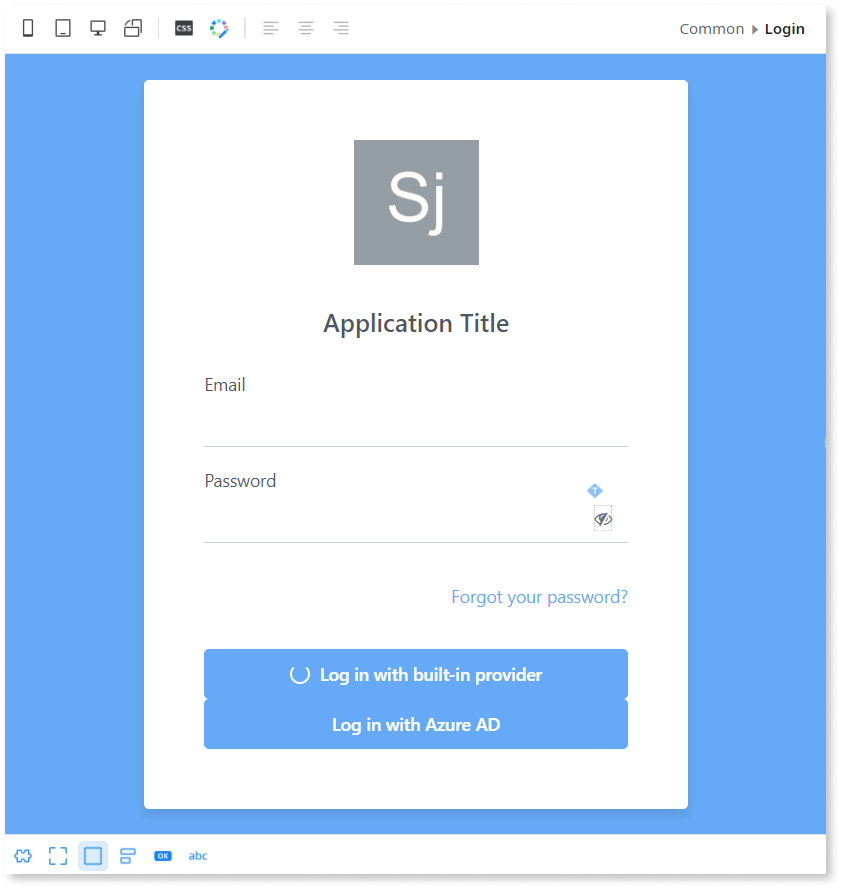
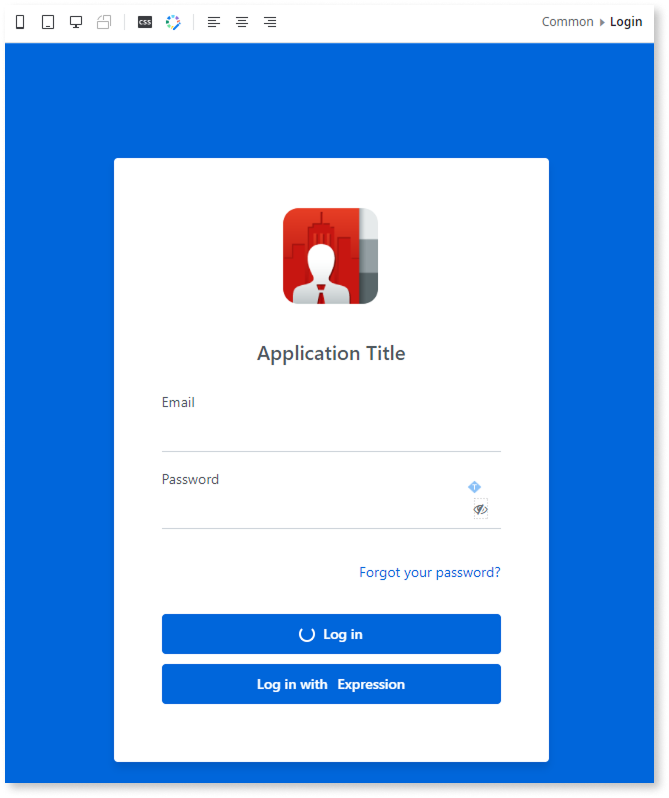
TK-16236 RDTKF-22078 RDTKF-22079 RDTKF-22080 RDTKF-19530 Add the missing Modify user info bar logout flow

diff --git a/src/eap/manage-platform-app-lifecycle/external-idps/apps.md b/src/eap/manage-platform-app-lifecycle/external-idps/apps.md
@@ -20,104 +20,284 @@ topic:
   - external-idps
 ---
 
-# Use external identity providers in an app
+# Use external identity providers (IdPs) in an app
 
-After assigning an external IdP to stage(s) (Development, QA, Production) in ODC Portal, you must modify the end-user login and logout flows for each app you want to use it.
+In the ODC Portal, you can configure external IdPs to manage authentication for different app stages (Development, QA, Production), ensuring that users authenticate through the provider assigned to their respective stage. After you [assign an External IdP](intro.md#assign-an-external-idp) to one or more stages in the ODC Portal, you need to update the end-user login and logout flows for each app you want to integrate with it.
 
-You can do one of the following:
+You can choose one of the following options (you need to update the end-user login and logout flows in a different way depending on the scenario you choose):
 
 * [**Delete the built-in login screen and redirect to an external provider.**](#delete-the-built-in-login-screen-and-redirect-to-external-provider) The recommended solution if you want to use a single external provider for your app, without the option of built-in provider.
 
-* [**Modify the built-in login screen to add button(s) for external provider login.**](#modify-the-built-in-login-screen-to-add-buttons-for-external-provider-login) The recommended solution if using multiple external providers or a single external provider and retain the option to login with the built-in provider.
+* [**Modify the built-in login screen to add buttons for external provider login.**](#modify-to-add-button) The recommended solution if using multiple external providers or a single external provider and retain the option to login with the built-in provider.
 
-After you complete the steps for your selected solution, republish the app and [promote](../../deploying-apps/deploy-apps.md) the new revision to the stage(s) where the provider is active.
-
-## Delete the built-in login screen and redirect to external provider
-
-For each app you want to modify, open it in ODC Studio and follow the steps in the **Modify main user login flow**, **Modify user info bar login flow** and **Modify user info bar logout flow** sections below.
-
-### Modify main user login flow
-
-To load the login action onto the canvas, click the **Interface** tab, then expand the **UI Flows** > **Common** folder and double-click **OnException**. You see the end-user login flow for the built-in provider on the left. Now follow these steps.
-
-1. Delete the built-in login screen by deleting the **Common\Login**  element from the logic flow.
-
-    ![Built-in provider flow](images/built-in-provider-flow-ss.png "Built-in provider flow")
-
-1. Navigate to the **Add public elements** icon on the top toolbar of ODC Studio or use the **Ctrl+Q** shortcut. Search for the [**GetExternalLoginURL** action](../../reference/system-actions/auth.md#getexternalloginurl), select it, and click **Add**.
-
-1. Click the **Logic** tab. Expand the **Client Actions** > **(System)** folder. Drag the **GetExternalLoginURL** action in place after the **LastRequest** element and connect them.
-
-1. In the **Properties** pane for **GetExternalLoginURL** action, set **IdentityProvider** using the name of the provider you applied in ODC Portal. Input as a Text data type. For example, `"providerA"`.
-
-1. Drag a **Destination** element from the toolbox bar to end the flow. A **Select Destination** popup screen displays. Expand the **UI Flows** > **Common** folder and select **RedirectToURL**.
-
-    ![External provider flow](images/external-provider-flow-ss.png "Built-in provider flow")
-
-1. In the Properties pane for the **RedirectToURL** action, set the **URL** setting to `GetExternalLoginURL.ExternalLoginURL`. This is where the user is redirected to perform the login.
-
-### Modify user info bar login flow
-
-Click the **Interface** tab, then expand the **UI Flows** > **Common** folder and double-click **UserInfo**. You see the user info block which by default displays in the right corner of the top bar of your published app. Now follow these steps.
-
-1. Click the **Login** text. Hover over the **Text** button and then click the **Link** button. The **Properties** pane for the **Link** button displays to the right of the canvas.
-
-1. In the **On Click** setting replace **Common\Login** by selecting **New Client Action** from the dropdown. A new client action is created, set in the **On Click** setting and displayed on the canvas.
-
-1. Click the **Logic** tab. Expand the **Client Actions** > **(System)** folder. Drag the **GetExternalLoginURL** action in place after the **Start** element.
-
-1. In the **Properties** pane for **GetExternalLoginURL** action, set **IdentityProvider** using the name of the provider you applied in ODC Portal. Input as a Text data type. For example, `"providerA"`.
-
-1. Delete the **End** element. Drag a **Destination** element from the toolbox bar to end the flow. A **Select Destination** popup screen displays. Expand the **UI Flows** > **Common** folder and select **RedirectToURL**.
-
-    ![New UserInfo action](images/new-userinfo-action-ss.png "New UserInfo action")
-
-1. In the Properties pane for the **RedirectToURL** action, set the **URL** setting to `GetExternalLoginURL.ExternalLoginURL`. This is where the user is redirected to perform the login. 
-
-### Modify user info bar logout flow
-
-Click the **Interface** tab, then expand the **UI Flows** > **Common** > **UserInfo** folder and double-click **ClientLogout**. You see the logout action for the user info bar. Now follow these steps.
-
-1. Delete the built-in logout action by deleting the **Logout** element from the logic flow.
-
-    ![ClientLogout](images/clientlogout-ss.png "ClientLogout")
-
-1. Navigate to the **Add public elements** icon on the top toolbar of ODC Studio or use the **Ctrl+Q** shortcut. Search for the [**GetExternalLogoutURL** action](../../reference/system-actions/auth.md#getexternallogouturl), select it, and click **Add**.
-
-    ![ClientLogout Modified](images/clientlogout-mod-ss.png "ClientLogout Modified")
-
-1. Click the **Logic** tab. Expand the **Client Actions** > **(System)** folder. Drag the **GetExternalLogoutURL** action in place after the **Start** element.
-
-1. In the Properties pane for the **RedirectToURL** action, set the **URL** setting to `GetExternalLogoutURL.ExternalLogoutURL`. This is where the user is redirected for the logout.
+After you complete the steps for your selected solution, republish the app, and [deploy the new revision in the ODC Portal to the appropriate stages](../../deploying-apps/deploy-apps.md) where the IdP is active.
 
 <div class="info" markdown="1">
 
-If you revert the provider for stage(s) back to the built-in provider, you must change the login flow for the apps back to that shown in Step 1, in which the **RedirectToURL** action has the **URL** input set to `GetOwnerURLPath()`.
+If you need to integrate with external services that require direct access to the authentication token, note that the ODC Portal manages tokens internally for security reasons. The authentication token is never exposed to users.
 
 </div>
 
-## Modify the built-in login screen to add button(s) for external provider login
+## Delete the built-in login screen and redirect to external provider
 
-To login with an external provider to the built-in login screen, follow the steps below. To add multiple buttons, repeat the steps.
+For each app you want to modify, open it in ODC Studio and follow these steps:
 
-1. To load the login screen onto the canvas, click the **Interface** tab, then expand the **UI Flows** > **Common** folder and double-click **Login**. The built-in login screen displays.
+1. [Modify the main user login flow](#modify-the-main-user-login-flow-idp-replaces-the-built-in-login).
 
-1. Drag a **Button** element from the toolbox onto the screen. Place it alongside or below the existing **Log in** button (button for the built-in provider). You can also use a [social login button](../sso.md#add-the-social-login-button-to-the-login-screen) here.
+1. [Modify the user info bar login flow](#modify-the-user-info-bar-login-flow-idp-replaces-the-built-in-login).
 
-1. In the Properties pane for the new button change the **Text** setting of the button to meet your requirement, for example `Log in with providerA`. You may also want to modify the **Text** setting of pre-existing **Log in** button.
+1. [Modify the user info bar logout flow](#modify-the-user-info-bar-logout-flow-idp-replaces-the-built-in-login).
 
-    ![Login screen modified](images/login-screen-modified-ss.png "Login screen modified")
+### Modify the main user login flow { #modify-the-main-user-login-flow-idp-replaces-the-built-in-login }
 
-1. In the **On Click** setting select **New Client Action** from the dropdown. A new client action is created, set in the **On Click** setting and displayed on the canvas. Delete the **LoginForm.Valid?** element and associated logic.
+If you chose the delete the built-in login screen scenario, to modify the main user login flow, follow these steps:
 
-1. Navigate to the **Add public elements** icon on the top toolbar of ODC Studio or use the **Ctrl+Q** shortcut. Search for the [**GetExternalLoginURL** action](../../reference/system-actions/auth.md#getexternalloginurl), select it, and click **Add**.
+1. Create the [**GetMyProvider** server action to fetch a setting](#create-a-server-action-with-idp-name) with the IdP's name.
 
-1. Click the **Logic** tab. Expand the **Client Actions** > **(System)** folder. Drag the **GetExternalLoginURL** action in place after the **Start** element.
+    ![Flow diagram showing the new server action flow.](images/new-server-action-ss.png "New server action flow")
 
-1. In the **Properties** pane for **GetExternalLoginURL** action, set **IdentityProvider** using the name of the provider you applied in ODC Portal. Input as a Text data type. For example, `"providerA"`.
+1. Go to the **Interface** > **Elements** tab, expand **UI Flows** > **Common**, and double-click **OnException**.
 
-1. Delete the **End** element. Drag a **Destination** element from the toolbox bar to end the flow. A **Select Destination** popup screen displays. Expand the **UI Flows** > **Common** folder and select **RedirectToURL**.
+1. To delete the built-in login screen, delete the **Common\Login** **Destination**  element from the logic flow.
 
-    ![New UserInfo action](images/new-userinfo-action-ss.png "New UserInfo action")
+    ![Flow diagram showing the built-in provider login process.](images/built-in-provider-flow-ss.png "Built-in provider flow")
 
-1. In the Properties pane for the **RedirectToURL** action, set the **URL** setting to `GetExternalLoginURL.ExternalLoginURL`. This is where the user is redirected to perform the login.
+1. Add the **GetMyProvider** server action you created after the **LastRequest** **Assign** element.
+
+1. Add the **GetExternalLoginURL** [public element](../../building-apps/libraries/use-public-elements.md) after the **GetMyProvider** server action.
+
+1. In the **GetExternalLoginURL** properties, set the **IdentityProvider** to `GetMyProvider.MyProvider`.
+
+1. Add a **Destination** element to the end, and then select **RedirectToURL**.
+
+    ![Flow diagram showing the external provider login process.](images/external-provider-flow-ss.png "External provider flow")
+
+1. In the **RedirectToURL** properties, set the **URL** to `GetExternalLoginURL.ExternalLoginURL`. The app redirects the user to this URL to perform the login.
+
+### Modify the user info bar login flow { #modify-the-user-info-bar-login-flow-idp-replaces-the-built-in-login }
+
+If you chose the delete the built-in login screen scenario, to modify the user info bar login flow, follow these steps:
+
+1. Create the [**GetMyProvider** wrapper client action](#create-a-wrapper-client-action-with-idp-name) for the server action you created previously.
+
+    ![Flow diagram showing the new client action flow.](images/new-client-action-ss.png "New client action flow")
+
+1. Go to the **Interface** tab, then expand **UI Flows** > **Common** and double-click **UserInfo**. Click the **Login** text, hover over the **Text** button, and then click the **Link** button.
+
+1. In the **On Click** property, select **New Client Action** from the dropdown, and name it `LogInWith_MyProvider`.
+
+1. Add the **GetMyProvider** wrapper client action you created after the **LastRequest** element.
+
+1. Add the **GetExternalLoginURL** [public element](../../building-apps/libraries/use-public-elements.md) after the **GetMyProvider** run client action, and in its properties, set the **IdentityProvider** to `GetMyProvider.MyProvider`.
+
+1. Drag a **Destination** element on top of the **End** element, select **RedirectToURL**, and set its **URL** property to `GetExternalLoginURL.ExternalLoginURL`. 
+
+    The app redirects the user to this URL to perform the login.
+
+    ![Flow diagram showing the new UserInfo action for external login.](images/new-userinfo-action-ss.png "New UserInfo action")
+
+### Modify the user info bar logout flow { #modify-the-user-info-bar-logout-flow-idp-replaces-the-built-in-login }
+
+If you chose the delete the built-in login screen scenario, to modify the user info bar logout flow, follow these steps:
+
+1. Go to the **Interface** tab, then expand **UI Flows** > **Common** > **UserInfo**, and double-click **ClientLogout**.
+
+1. To delete the built-in logout action, delete the **Logout** element from the logic flow.
+
+    ![Flow diagram showing the built-in provider logout process.](images/clientlogout-ss.png "ClientLogout")
+
+1. Add the **GetExternalLogoutURL** [public element](../../building-apps/libraries/use-public-elements.md) after the **Start** element.
+
+1. In the **RedirectToURL** **Destination** properties, set the **URL** to `GetExternalLogoutURL.ExternalLogoutURL`. The app redirects the user to this URL to perform the logout.
+
+<div class="info" markdown="1">
+
+If you revert the provider for a stage back to the built-in provider, update the app's login flow to its original state. In the **RedirectToURL** **Destination** properties, set the **URL** to `GetOwnerURLPath()`.
+
+</div>
+
+## Modify the built-in login screen to add buttons for external provider login { #modify-to-add-button }
+
+For each app you want to modify, open it in ODC Studio and follow these steps:
+
+1. [Modify the login screen](#modify-the-login-screen-add-an-idp-button-alongside-the-built-in-login).
+
+1. [Modify the user info bar login flow](#modify-the-user-info-bar-login-flow-idp-button-added-alongside-the-built-in-login).
+
+1. [Modify the user info bar logout flow](#modify-the-user-info-bar-logout-flow-idp-button-added-alongside-the-built-in-login).
+
+### Modify the login screen { #modify-the-login-screen-add-an-idp-button-alongside-the-built-in-login }
+
+If you chose the modify the login screen scenario, to add a login button with an external provider to the built-in login screen, follow one of the three options below. To add multiple buttons, repeat the steps.
+
+**Option 1: Drag a button from the toolbox**
+:   
+
+   1. [Create the DataActionMyProvider](#create-data-action) Data action.
+
+   1. To load the login screen onto the canvas, go to the **Interface** tab, expand **UI Flows** > **Common**, and double-click **Login**.  
+   
+   1. Drag a **Button** element from the toolbox to the screen and place it next to or below the existing **Log in** button.  
+
+   1. In the **Button** properties, set the **Text** to `Log in with`. You may also want to modify the **Text** property of the pre-existing **Log in** button.
+
+   1. Drag an **Expression** element from the toolbox to the canvas, inside the previous button, and next to the **Text** element.
+
+   1. In the **Expression** properties, set the **Value** to `DataActionMyProvider.MyProvider`.
+    
+       ![Modified login screen with buttons for built-in and external provider login.](images/login-screen-modified-ss.png "Login screen modified")
+   
+   1. In the enclosing **Button** properties, Set the **On Click** property to **New Client Action**.
+
+   1. Name it `LogInWith_<ExternalIdP>`. For example, `LogInWith_AzureAD`.
+
+**Option 2: Add a built-in social login button (only for Google, Facebook, and Apple)**
+:   
+   
+   1. Add a [social login button](../sso.md#add-the-social-login-button-to-the-login-screen).  
+    
+   1. In its Properties, select **New Client Action** from the **Handler** dropdown.
+
+   1. Name it `LogInWith_<ExternalIdP>`. For example, `LogInWith_AzureAD`.
+
+**Option 3: Use official login buttons for LinkedIn or Microsoft Entra ID**
+:   
+   
+   LinkedIn and Microsoft Entra ID are not included in the list of Identity Providers available for the built-in **social login button**. To use their official login buttons, follow these steps:
+   
+   1. Download the official button image from the provider's website: [LinkedIn](https://content.linkedin.com/content/dam/developer/branding/signin_with_linkedin-buttons.zip) or [Microsoft](https://learn.microsoft.com/en-us/entra/identity-platform/howto-add-branding-in-apps#referring-to-microsoft-entra-accounts-in-your-application).
+   
+   1. In ODC Studio, go to the **Elements** tab, and import the button image.  
+
+   1. Drag an **Image** widget to the login screen canvas.  
+
+   1. In the **Image** properties, select the uploaded image from the **Image** dropdown.  
+    
+   1. Set the **Event** property to `onclick` and the **Handler** to `New Client Action`.
+
+   1. Name it `LogInWith_<ExternalIdP>`. For example, `LogInWith_AzureAD`.
+
+### Modify the user info bar login flow { #modify-the-user-info-bar-login-flow-idp-button-added-alongside-the-built-in-login }
+
+If you chose the modify the login screen scenario, to modify the user info bar login flow, follow these steps:
+
+1. Create the [**GetMyProvider** server action to fetch a setting](#create-a-server-action-with-idp-name) with the IdP's name.
+
+    ![Flow diagram showing the new server action flow.](images/new-server-action-ss.png "New server action flow")
+
+1. Create the [**GetMyProvider** wrapper client action](#create-a-wrapper-client-action-with-idp-name).
+
+    ![Flow diagram showing the new client action flow.](images/new-client-action-ss.png "New client action flow")
+
+1. Open the `LogInWith_<ExternalIdP>` action you created when you [modified the login screen](#modify-the-login-screen-add-an-idp-button-alongside-the-built-in-login), and delete the **LoginForm.Valid?** element and associated logic.
+
+1. Add the **GetMyProvider** wrapper client action you created after the **LastRequest** **Destination** element.
+
+1. Add the **GetExternalLoginURL** [public element](../../building-apps/libraries/use-public-elements.md) after the **GetMyProvider** element.
+
+1. In the **GetExternalLoginURL** properties, set the **IdentityProvider** to `GetMyProvider.MyProvider`.
+
+1. Drag a **Destination** element on top of the **End** element, select **RedirectToURL**, and set its **URL** property to `GetExternalLoginURL.ExternalLoginURL`.
+
+    The app redirects the user to this URL to perform the login.
+
+    ![Flow diagram showing the new UserInfo action for external login.](images/new-userinfo-action-ss.png "New UserInfo action")
+
+### Modify the user info bar logout flow { #modify-the-user-info-bar-logout-flow-idp-button-added-alongside-the-built-in-login }
+
+If you chose the modify the login screen scenario, to modify the user info bar logout flow, follow these steps:
+
+1. To open the **ClientLogout** client action, go to the **Interface** tab, expand **UI Flows** > **Common** > **UserInfo**, and then double-click **ClientLogout**. 
+
+1. In the **Logic** tab, expand **Client Actions** > **(System)**, and drag the **IsExternalUser** action between the **Start** and the **Logout** nodes.
+
+1. Add an **If** element after the **IsExternalUser** action, and in its properties, set the **Condition** to `IsExternalUser.IsExternalUser=True`.
+
+1. Add the **GetExternalLogoutURL** [public element](../../building-apps/libraries/use-public-elements.md) in the **True** branch, to the right of the **If** element.
+
+1. Copy the **Clear client variables Assign** element, paste it in the **True** branch to the right of the **GetExternalLogoutURL** action.
+
+1. Add a **Destination** to the right of the **Clear client variables Assign**, in the **True** branch. Select **RedirectToURL**, and in its properties, set the **URL** to `GetExternalLogoutURL.ExternalLogoutURL`.
+    
+    ![Flow diagram showing the logout process with an added IdP button.](images/clientlogout-if-added-idp-ss.png "ClientLogout flow after modification")
+
+1. To save, click **Publish**.
+
+## Create a server action to fetch a setting with the IdP's name { #create-a-server-action-with-idp-name }
+
+For the **IdentityProvider** property of the **GetExternalLoginURL** action, instead of entering the provider's name as a string, it's a better practice to create an action that uses a setting, and modify the setting in the ODC Portal if needed.
+
+To create the server action that fetches the setting:
+
+1. In ODC Studio, create a new setting of the text data type, and name it `MyProvider`.
+
+1. Create a new server action, name it `GetMyProvider`, and set the **Function** property to **Yes**. 
+
+    Setting it as a function lets you get the output of the action in expressions, without exposing the server action publicly in a data action. Additionally, you can [set the value of MyProvider in the ODC Portal](#modify-setting-odc-portal), without needing to republish the app.
+    
+    <div class="info" markdown="1">
+
+    The name of the IdP is **case sensitive**. Make sure it matches the IdP's name in the Identity providers page in the ODC Portal.
+
+    </div>
+
+1. Add an output parameter, and name it `MyProvider`.
+
+1. Add an **Assign** element after the **Start** element.
+
+1. In the **Assign** properties, select **MyProvider** from the dropdown, and set its value to `Settings.MyProvider`.
+
+    ![Flow diagram showing the new server action flow.](images/new-server-action-ss.png "New server action flow")
+
+## Create a wrapper client action { #create-a-wrapper-client-action-with-idp-name }
+
+To be able to use the output parameter of the server action in the logic flow where you add the GetExternalLoginURL action without exposing a server action to public access without authentication, you need to create a client action. Follow these steps:
+
+1. In ODC Studio, create a new client action, and name it `GetMyProvider`.
+
+1. Add an output parameter, and name it `MyProvider`.
+
+1. Add the MyProvider server action you created after the **Start** element.
+
+1. Add an **Assign** element before the **End** element.
+
+1. In the **Assign** properties, select **MyProvider** from the dropdown, and set its value to `GetMyProvider.MyProvider`.
+
+    ![Flow diagram showing the new client action flow.](images/new-client-action-ss.png "New client action flow")
+
+## Create a data action { #create-data-action }
+
+To be able to use the setting with the IdP name in an **Expression** in the Login screen, you need to create a data action in the Login screen that fetches the data from the server action. Follow these steps:
+
+1. Go to the **Interface** tab, expand **UI Flows** > **Common**, right-click the **Login** screen, and then select **Fetch Data from Other Sources**.
+
+1. Name it `DataActionMyProvider`.
+
+1. Name the output parameter `MyProvider`.
+
+1. Add an **Assign** after the **Start** element.
+
+1. In the **Assign** properties, select **MyProvider** from the dropdown, and set its value to `GetMyProvider()`.
+
+    ![Flow diagram showing the new data action flow.](images/new-data-action-ss.png "New data action flow")
+
+## Modify a setting in the ODC Portal { #modify-setting-odc-portal }
+
+To modify a setting in the ODC Portal:
+
+1. Under **Create**, go to **Apps**.
+
+1. Search for your app.
+
+1. On the **Configuration** tab, click **Settings**.
+
+1. Click on the three dots (**...**) next to the setting you want to edit, and then click **Edit**.
+
+1. Enter the new value.
+
+1. Click **Save**.
+
+## Related resources
+
+* [Configure authentication with external identity providers](intro.md).
+* [IdP and end-user group mapping](end-user-group-mapping.md).

diff --git a/src/eap/building-apps/libraries/use-public-elements.md b/src/eap/building-apps/libraries/use-public-elements.md
@@ -26,7 +26,7 @@ For example, you can use elements in the HTTP library to extend your app to hand
 
 ## Add public elements
 
-To use public elements, you must first add them to your app. Navigate to the **Add public elements** icon on the top toolbar of ODC Studio or use the **Ctrl+Q** shortcut. In the selection window, you can filter by name, description, and type of element. Select the element or elements you want to add and click **Add**.
+To use public elements, you must first add them to your app. Navigate to the **Add public elements** icon on the top toolbar of ODC Studio or use the **Ctrl+Q** shortcut (**Cmd+D** on Mac). In the selection window, you can filter by name, description, and type of element. Select the element or elements you want to add and click **Add**.
 
 ### Libraries
 

diff --git a/src/eap/manage-platform-app-lifecycle/external-idps/intro.md b/src/eap/manage-platform-app-lifecycle/external-idps/intro.md
@@ -112,7 +112,7 @@ To launch the **New provider** configuration screen, click the **Add Provider** 
 
 1. Click **Save**. ODC adds the provider to the list of available providers. If this fails, a notification with the error displays.
 
-## Assign an external IdP
+## Assign an external IdP { #assign-an-external-idp }
 
 To assign an added external IdP, navigate to the **Identity providers** tab in the ODC Portal. Then follow these steps:
 
